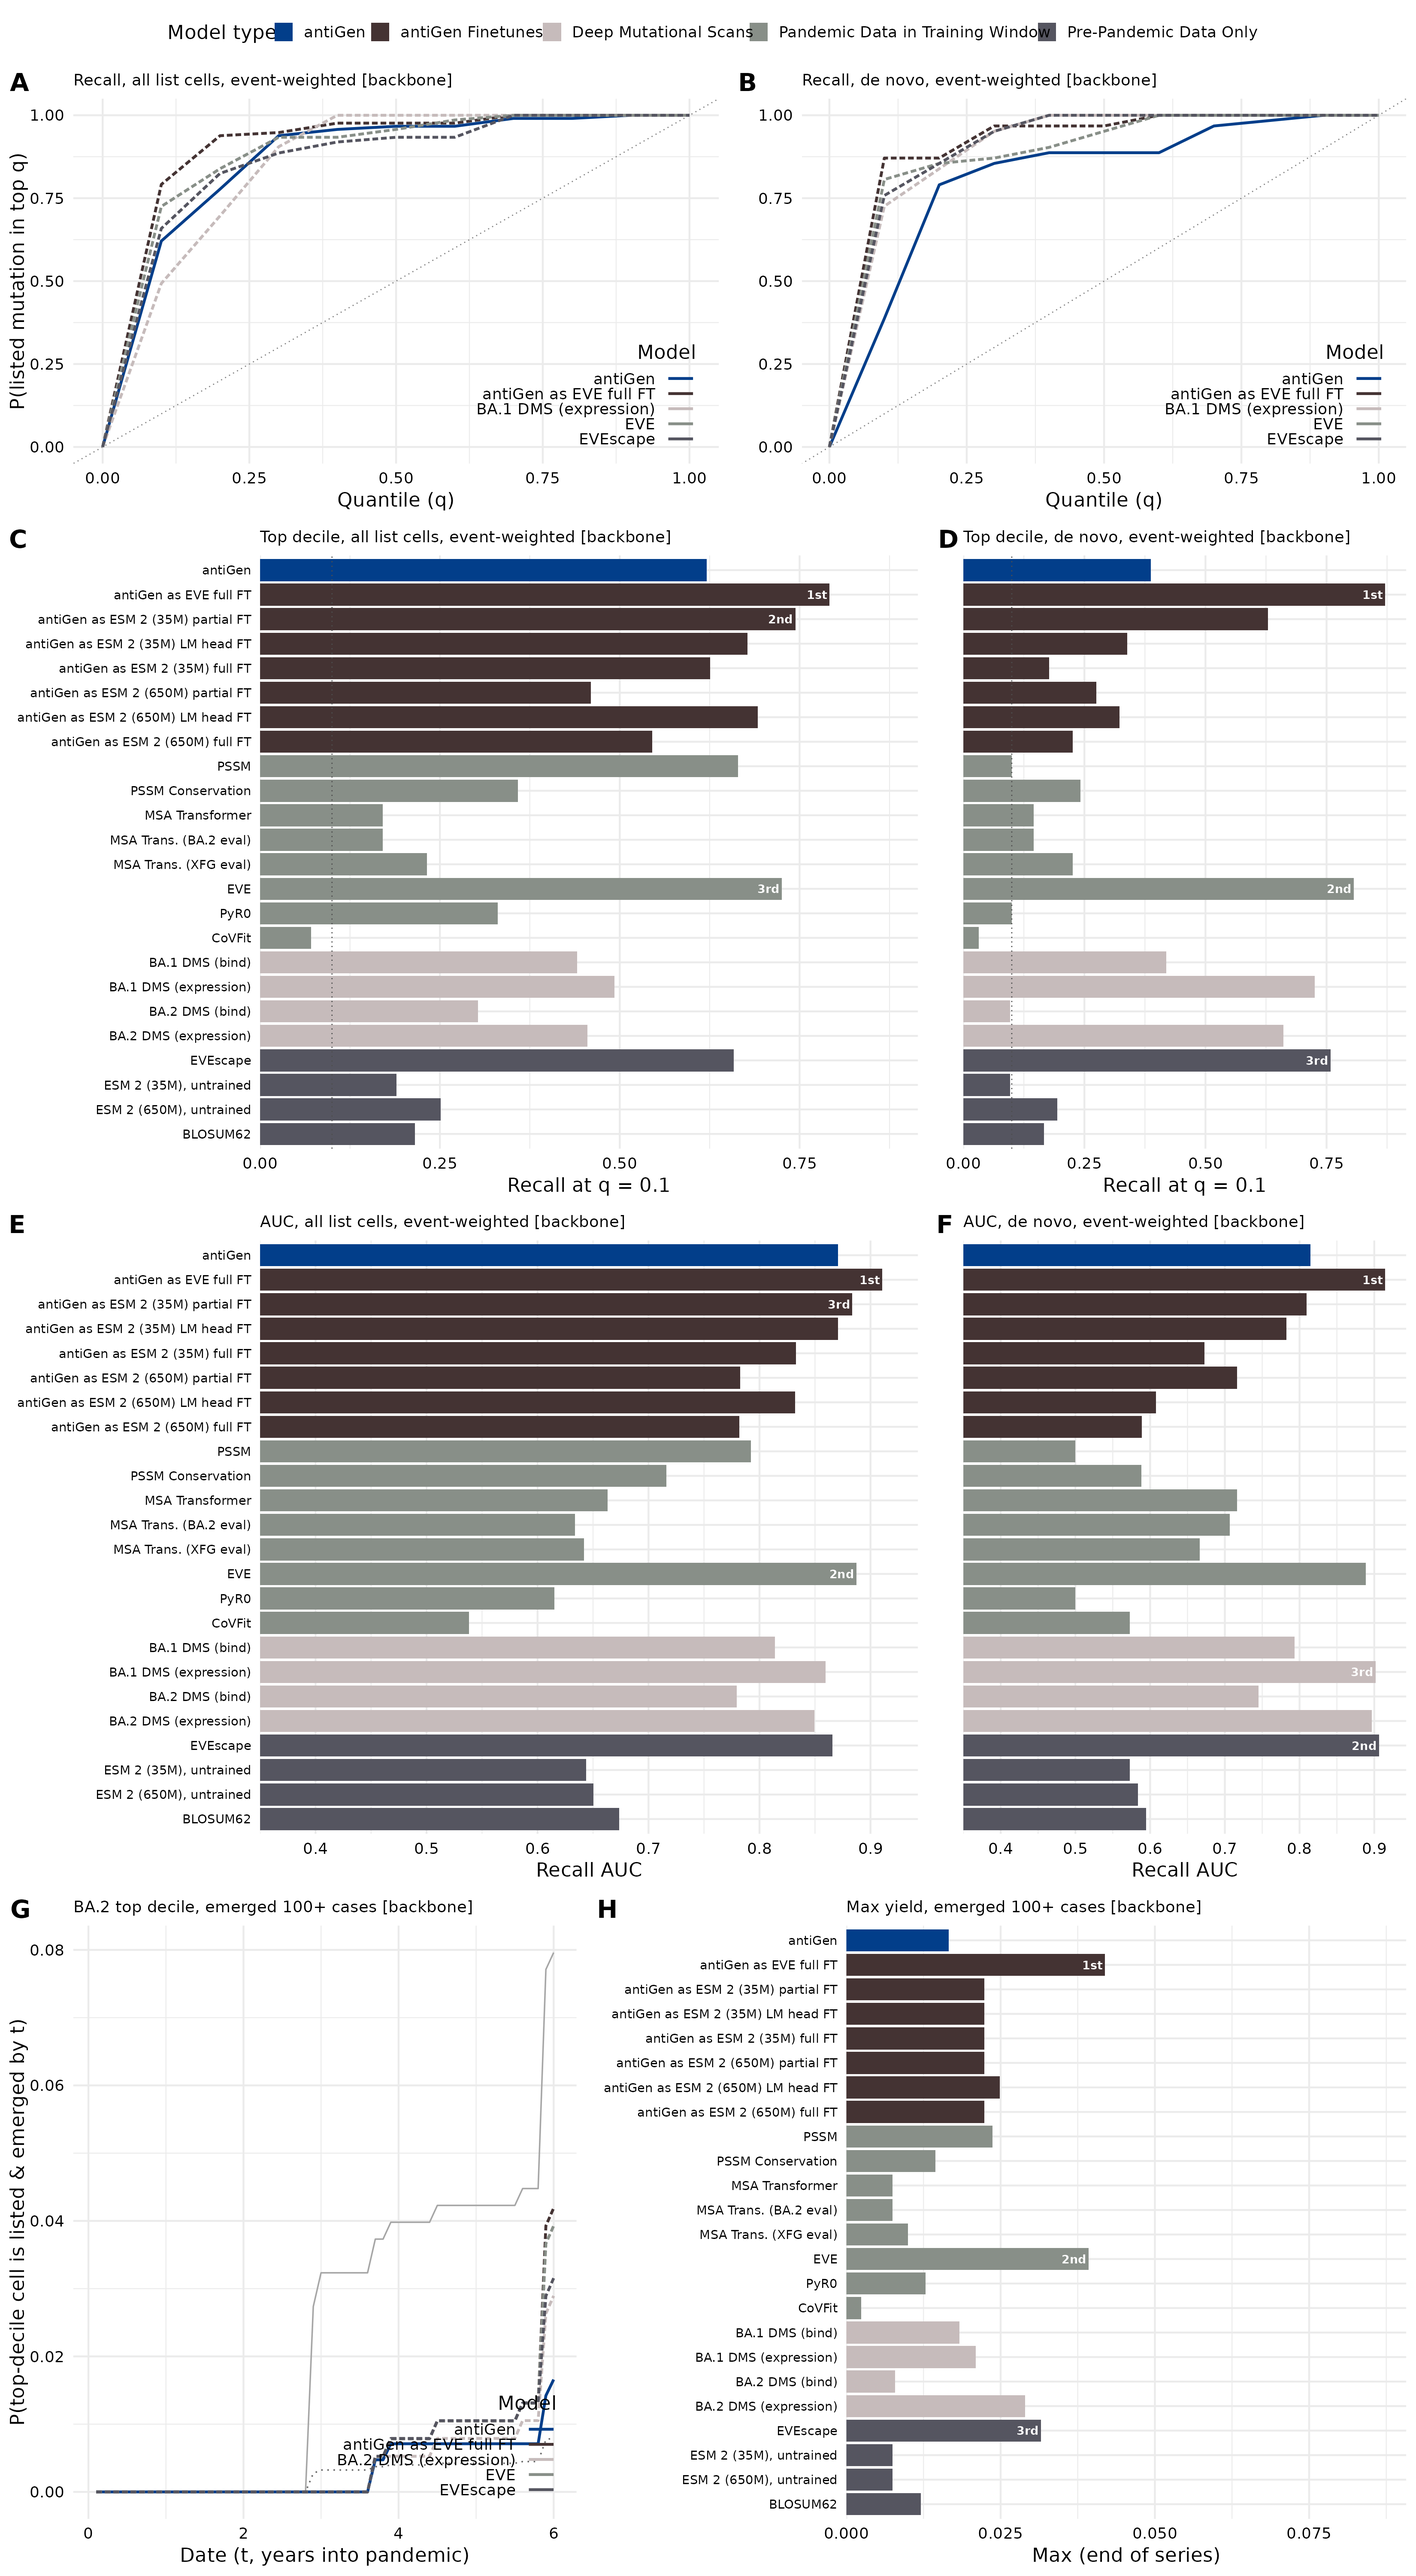
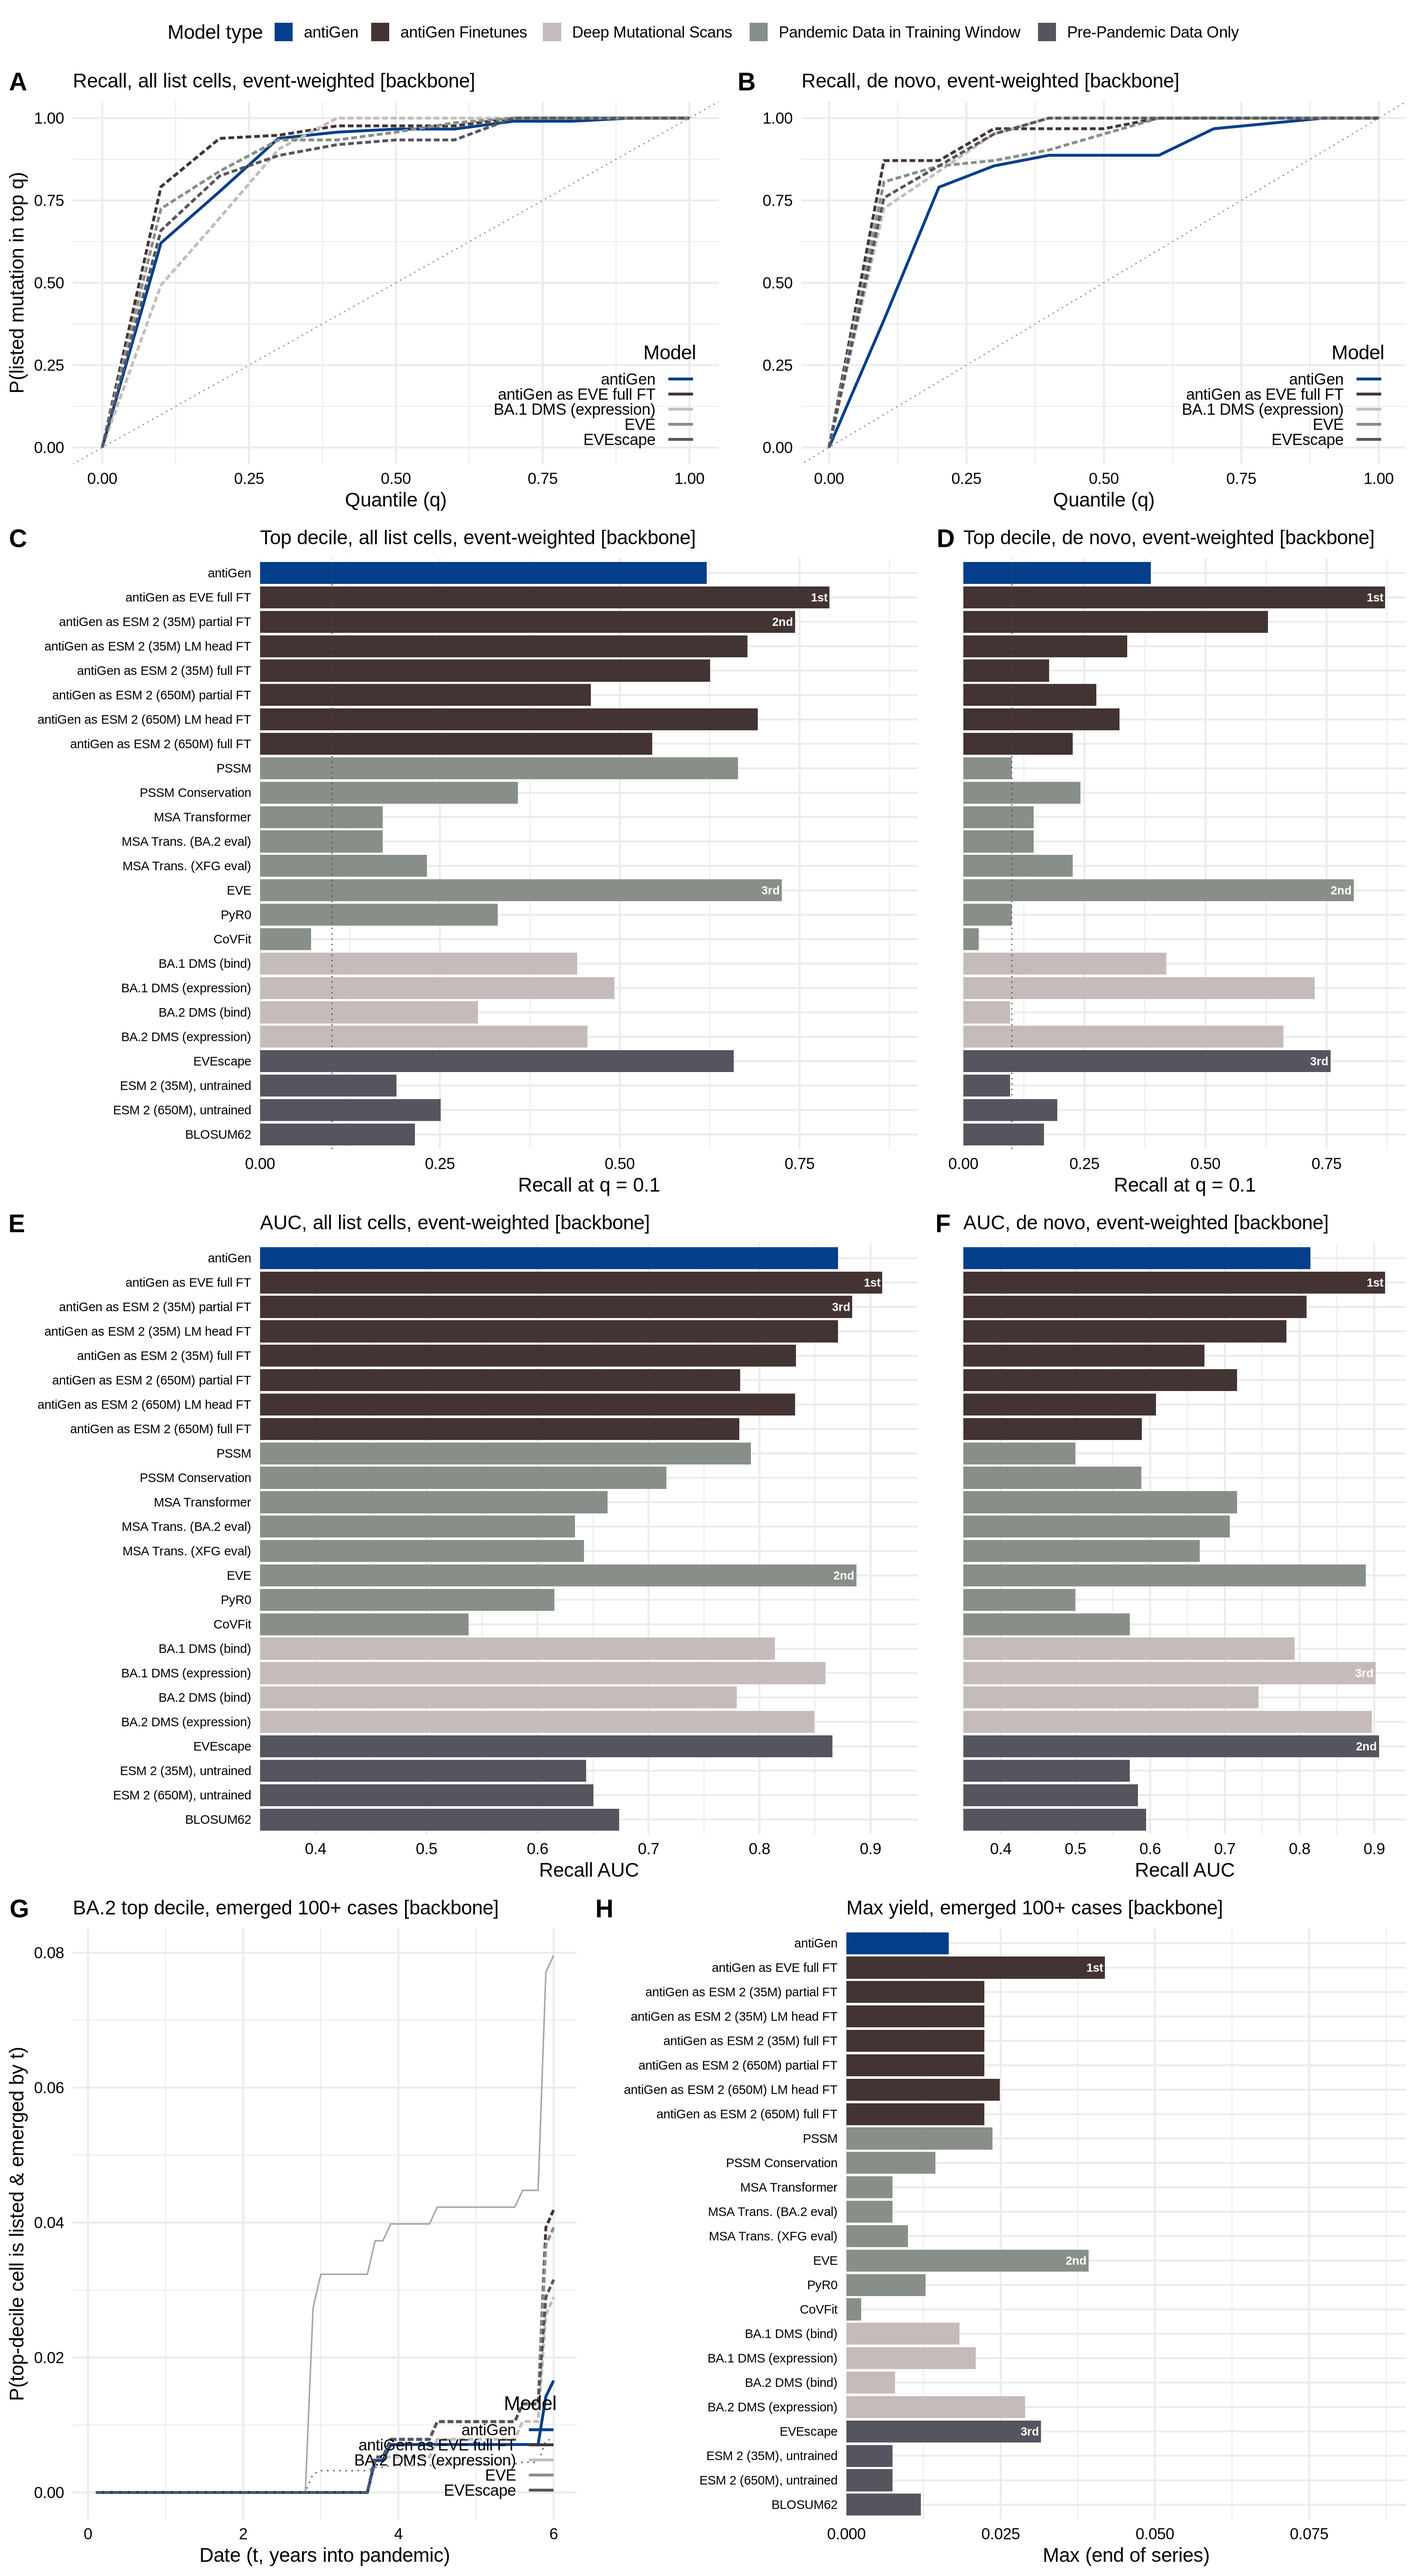
Re-render the backbone figure in the environment the other figures use
The first render came out in a different typeface from every other figure in
the repo. The script was not the problem -- the R was. envs/r-figs (R 4.4.3)
has ragg installed, so ggsave sends PNG output to ragg::agg_png, which
resolves fonts through systemfonts and picks a different default face;
envs/antigen-figs (R 4.5.3, the version the README names) has no ragg and
falls back to the cairo png device, which is what every committed figure was
drawn with.

Re-rendering coguk_list_results under antigen-figs reproduces the committed
PNG at RMSE = 0, pixel for pixel, which is the check that the environment is
the right one AND that parameterising fig_coguk_list.R changed nothing in the
published figure.

The size-9 title override the first render needed was a ragg artefact too:
under the cairo font the longest title fits at theme_paper()'s 11. It is now
an unset option (coguk.title_size) rather than a default, so the two figures
are typographically identical.

diff --git a/experiments/multitree/NOTES.md b/experiments/multitree/NOTES.md
@@ -4352,6 +4352,26 @@ depend on `antiGen-data`'s RNG seed.
 * The antiGen and EVE score matrices in this rendering came from the CPU pilot and the
   rest from the GPU job; same checkpoints, different runs. To be re-scored in one pass.
 
+### Render it in the right environment, or the font changes
+
+The first render of this figure came out in a different typeface from every other
+figure in the repo. The cause is not the script -- it is which R is used.
+`/home/ivan.specht/miniconda/envs/r-figs` (R 4.4.3) has **ragg** installed, so
+`ggsave` dispatches PNG output to `ragg::agg_png`, which resolves fonts through
+`systemfonts` and picks a different default face. `.../envs/antigen-figs` (R 4.5.3, the
+version the README names) has no ragg, so `ggsave` falls back to the cairo `png` device,
+which is what every committed figure was drawn with.
+
+Checked rather than assumed: re-rendering `coguk_list_results` under `antigen-figs`
+reproduces the committed PNG at **RMSE = 0**, pixel for pixel -- which also confirms
+that parameterising the script changed nothing in the published figure. Use
+`antigen-figs` for anything that lands in `figs/`.
+
+(The size-9 title override that the first render needed was a ragg artefact too: under
+the cairo font the longest title, "Top decile, de novo, cell-weighted [backbone]", fits
+at `theme_paper()`'s 11. `coguk.title_size` is still available but is unset by default,
+so the two figures are typographically identical.)
+
 ### Files
 
 `antiGen/backbone_list_eval.py` (test set + recall + the BA.2 yield series),
